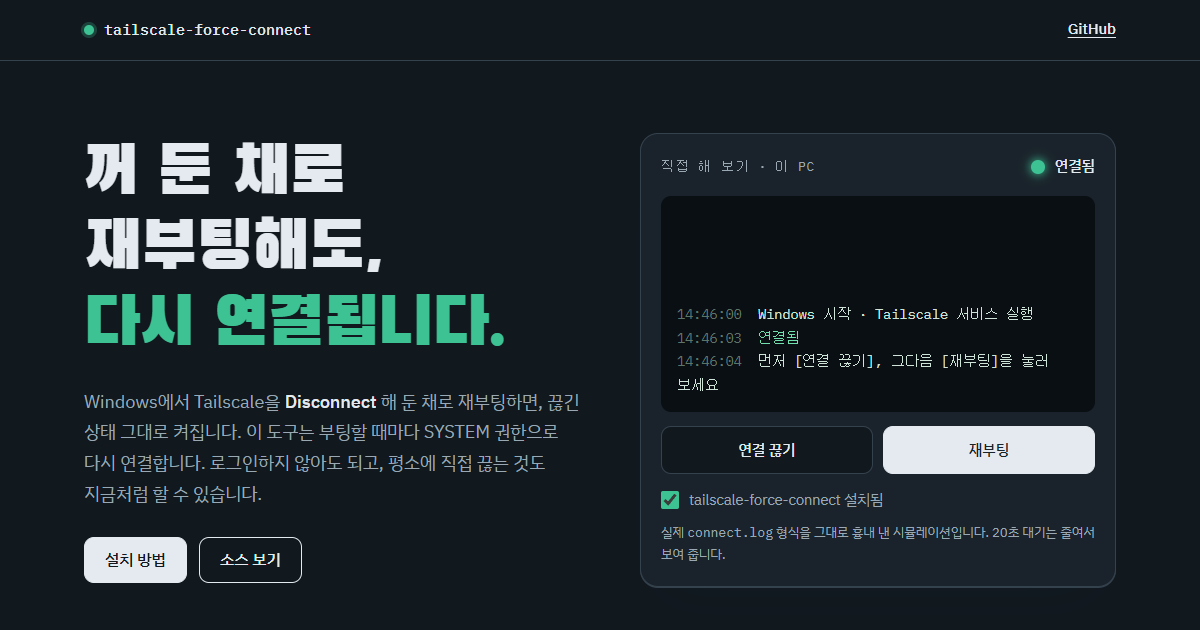
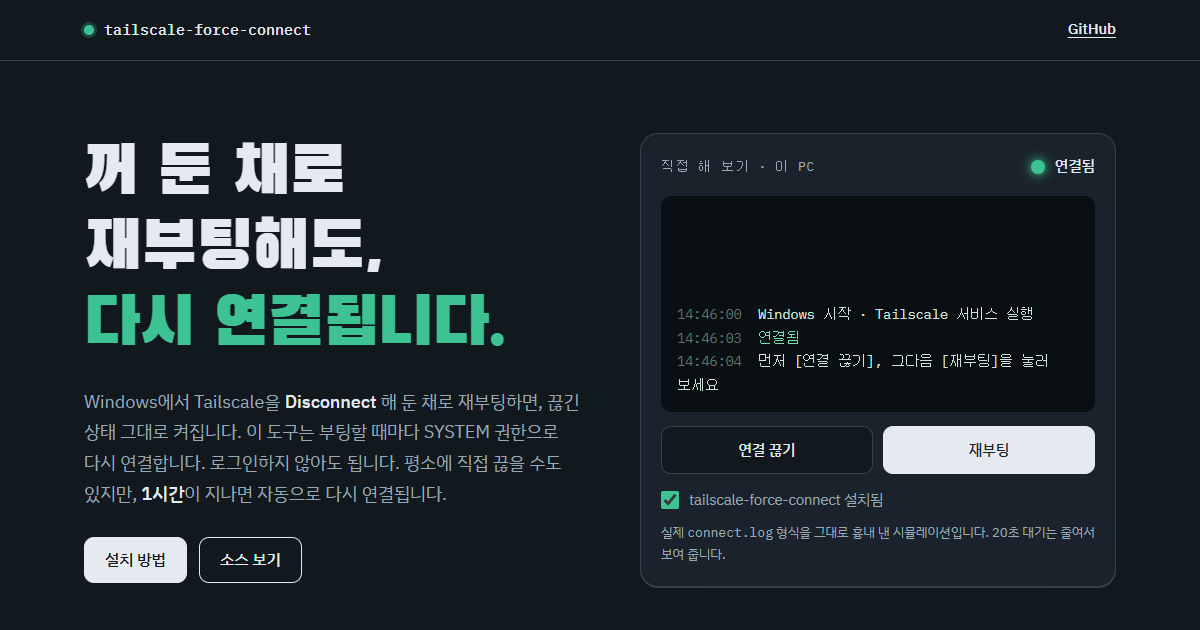
v1.2.0: reconnect automatically about 1 hour after a manual disconnect (#4)

Changed region(s): [[0.0617, 0.7238, 0.4625, 0.8143]]

diff --git a/docs/index.html b/docs/index.html
@@ -211,7 +211,7 @@
     <div>
       <h1>꺼 둔 채로 재부팅해도,<br><span class="again">다시 연결됩니다.</span></h1>
       <p class="lede">Windows에서 Tailscale을 <strong>Disconnect</strong> 해 둔 채로 재부팅하면, 끊긴 상태 그대로 켜집니다.
-        이 도구는 부팅할 때마다 SYSTEM 권한으로 다시 연결합니다. 로그인하지 않아도 되고, 평소에 직접 끊는 것도 지금처럼 할 수 있습니다.</p>
+        이 도구는 부팅할 때마다 SYSTEM 권한으로 다시 연결합니다. 로그인하지 않아도 됩니다. 평소에 직접 끊을 수도 있지만, <strong>1시간</strong>이 지나면 자동으로 다시 연결됩니다.</p>
       <div class="hero-actions">
         <a class="btn" href="#install">설치 방법</a>
         <a class="btn ghost" href="https://github.com/jeiel85/tailscale-force-connect">소스 보기</a>
@@ -279,8 +279,8 @@ powershell -ExecutionPolicy Bypass -File .\install.ps1</code></pre><button type=
           <thead><tr><th scope="col">방법</th><th scope="col">직접 끊기</th><th scope="col">다시 연결되는 때</th></tr></thead>
           <tbody>
             <tr><th scope="row"><code>AlwaysOn.<wbr>Enabled</code></th><td class="no">불가</td><td>끊을 수 없게 막습니다. <code>OverrideWithReason</code>을 켜면 사유를 적고 끊을 수 있습니다.</td></tr>
-            <tr><th scope="row"><code>Reconnect<wbr>After</code></th><td class="yes">가능</td><td>정한 시간(예: <code>30m</code>)이 지나면, 재부팅 여부와 관계없이 다시 연결합니다.</td></tr>
-            <tr class="mine"><th scope="row">이 도구</th><td class="yes">가능</td><td>부팅할 때만 다시 연결합니다. 그 전까지는 끊은 상태가 유지됩니다.</td></tr>
+            <tr><th scope="row"><code>Reconnect<wbr>After</code></th><td class="yes">가능</td><td>정한 시간(예: <code>30m</code>)이 지나면 다시 연결합니다. 다만 1.104.5에서 <code>tailscale down</code> 뒤에는 재연결되지 않았습니다.</td></tr>
+            <tr class="mine"><th scope="row">이 도구</th><td class="yes">가능</td><td>직접 끊으면 약 1시간(바꿀 수 있음) 뒤 다시 연결하고, 부팅할 때는 기다리지 않고 바로 다시 연결합니다.</td></tr>
           </tbody>
         </table>
         <p class="hint">공식 문서에는 정책이 재부팅 때 어떻게 동작하는지 따로 적혀 있지 않습니다. <a href="https://tailscale.com/docs/features/tailscale-system-policies">Tailscale 시스템 정책 문서</a></p>
@@ -298,6 +298,7 @@ powershell -ExecutionPolicy Bypass -File .\install.ps1</code></pre><button type=
         <div><dt>예약 작업</dt><dd><code>Tailscale Auto Connect</code>: 부팅하고 20초 뒤 SYSTEM으로 실행합니다. 연결될 때까지 10초 간격으로 최대 10분 동안 <code>tailscale up</code>을 시도합니다.</dd></div>
         <div><dt>스크립트 폴더</dt><dd><code>C:\ProgramData\TailscaleAutoConnect\</code>: 관리자만 고칠 수 있고, 일반 사용자는 읽기만 할 수 있습니다.</dd></div>
         <div><dt>로그</dt><dd>같은 폴더의 <code>connect.log</code>와 이벤트 뷰어의 응용 프로그램 로그(원본 <code>TailscaleForceConnect</code>)에 부팅할 때마다 결과가 남습니다. 연결 실패나 로그인이 필요한 상황(키 만료)은 오류로 기록됩니다.</dd></div>
+        <div><dt>자동 재연결 작업</dt><dd><code>Tailscale Auto Reconnect</code>: SYSTEM으로 5분마다 상태를 확인해, 직접 끊은 상태가 1시간 넘게 이어지면 다시 연결합니다. 트레이 메뉴로 끊었든 명령으로 끊었든 똑같습니다. 시간은 <code>install.cmd -ReconnectAfter 30m</code>이나 한 줄 설치 앞의 <code>set TFC_RECONNECT_AFTER=30m &amp;&amp;</code>로 바꾸고, <code>0</code>이면 이 작업을 만들지 않습니다.</dd></div>
         <div><dt>Unattended 모드</dt><dd>꺼져 있으면 켭니다. 그래야 Windows에 로그인하기 전에도 연결됩니다.</dd></div>
         <div><dt>기존 설정</dt><dd>플래그 없이 <code>tailscale up</code>만 실행하므로 exit node, 경로 수락 같은 설정은 바뀌지 않습니다.</dd></div>
       </dl>
@@ -308,7 +309,7 @@ powershell -ExecutionPolicy Bypass -File .\install.ps1</code></pre><button type=
     <div class="wrap block-grid">
       <div>
         <h2 id="h-remove">제거</h2>
-        <p class="side-note">예약 작업, 설치 폴더, 이벤트 로그 원본을 지웁니다. Tailscale 설정은 그대로 남습니다.</p>
+        <p class="side-note">예약 작업, 설치 폴더, 이벤트 로그 원본, 이 도구가 설정한 자동 재연결 정책을 지웁니다. 그 밖의 Tailscale 설정은 그대로 남습니다.</p>
       </div>
       <div class="methods">
         <div class="method">

diff --git a/README.md b/README.md
@@ -1,10 +1,11 @@
 # tailscale-force-connect
 
-Windows PC에서 **재부팅할 때마다 Tailscale을 연결 상태로 되돌립니다.** 평소에는 직접 끊을 수 있고, 강제로 연결하는 건 부팅할 때뿐입니다.
+Windows PC에서 **재부팅할 때마다 Tailscale을 연결 상태로 되돌립니다.** 직접 끊을 수도 있지만, 끊은 상태는 **1시간**(바꿀 수 있음)까지만 유지되고 그 뒤에는 자동으로 다시 연결됩니다.
 
 > **English:** A tiny PowerShell + Task Scheduler setup that makes Tailscale on Windows reconnect on every boot,
 > even if you clicked *Disconnect* before shutting down. It runs as SYSTEM before anyone logs in, keeps your
-> existing `tailscale up` settings, and does **not** stop you from disconnecting manually afterwards.
+> existing `tailscale up` settings, and still lets you disconnect manually — Tailscale reconnects by itself
+> after about 1 hour (configurable): a SYSTEM task checks every 5 minutes and reconnects once it has been off that long.
 
 🌐 소개 페이지: <https://jeiel85.github.io/tailscale-force-connect/>
 
@@ -14,7 +15,11 @@ Tailscale은 마지막 연결 상태를 기억합니다. 트레이에서 **Disco
 끊긴 상태가 그대로 유지됩니다. 원격으로 접속해야 하는 PC가 정전이나 강제 재부팅 뒤에 끊긴 채로 켜지면
 그 PC 앞으로 직접 가야 합니다.
 
-이 도구는 부팅할 때마다 SYSTEM 권한으로 `tailscale up`을 실행해 그 상태를 덮어씁니다.
+이 도구는 두 가지를 합니다.
+
+1. **부팅할 때:** SYSTEM 권한으로 `tailscale up`을 실행해 끊긴 상태를 덮어씁니다.
+2. **평소에 직접 끊었을 때:** SYSTEM 예약 작업 `Tailscale Auto Reconnect`가 5분마다 상태를 확인해, 끊긴 상태가
+   **1시간** 넘게 이어지면 다시 연결합니다. 트레이 메뉴로 끊었든 `tailscale down`으로 끊었든 똑같이 동작합니다.
 
 ## 먼저 공식 기능을 검토하세요
 
@@ -24,11 +29,11 @@ Tailscale Windows 클라이언트 **1.84 이상**에는 비슷한 목적의 [시
 | 방법 | 직접 끊기 | 동작 |
 |---|---|---|
 | `AlwaysOn.Enabled` 정책 | ❌ 불가 | 연결을 끊거나 클라이언트를 종료할 수 없게 막습니다. `AlwaysOn.OverrideWithReason`을 켜면 사유를 입력하고 끊을 수 있습니다(사유는 관리 콘솔 로그에 남음). |
-| `ReconnectAfter` 정책 | ⭕ 가능 | 끊긴 상태로 있을 수 있는 시간을 정합니다(예: `30m`). 재부팅과 상관없이 그 시간이 지나면 다시 연결됩니다. |
-| **이 도구** | ⭕ 가능 | 다음 부팅까지 끊긴 상태가 유지되고, **부팅할 때만** 다시 연결합니다. |
+| `ReconnectAfter` 정책 | ⭕ 가능 | 끊긴 상태로 있을 수 있는 시간을 정합니다(예: `30m`). 단, 이 PC(1.104.5)에서 `tailscale down` 뒤에는 시간이 지나도 다시 연결되지 않았습니다(아래 참고). |
+| **이 도구** | ⭕ 가능 | 직접 끊으면 약 1시간(바꿀 수 있음) 뒤 다시 연결하고, **부팅할 때는 기다리지 않고 바로** 다시 연결합니다. |
 
-공식 문서에는 이 정책들이 재부팅할 때 정확히 어떻게 동작하는지 나와 있지 않습니다. "평소엔 마음대로 끊고, 부팅하면 무조건 연결"이라는
-동작이 꼭 필요할 때 이 도구를 쓰세요.
+공식 `ReconnectAfter` 정책도 시험해 봤습니다. 정책은 적용됐지만(`tailscale syspolicy list`에 표시), `tailscale down` 뒤 1~2분이 지나도
+다시 연결되지 않았습니다. 그래서 이 도구는 정책에 기대지 않고 상태를 직접 확인합니다. 정책이 잘 동작하는 환경이라면 정책을 쓰는 편이 더 단순합니다.
 
 ## 설치
 
@@ -70,6 +75,11 @@ powershell -ExecutionPolicy Bypass -File .\install.ps1
   - 방법 3: `install.ps1 -NoTest`
 - 마지막 줄이 `완료 (종료 코드 0)`이고 그 앞에 `검증 성공`이 있으면 설치가 끝난 것입니다. 한 줄 설치는 실패하면 오류를 출력하고 0이 아닌 종료 코드로 끝납니다.
 - Unattended 모드(로그인 전에도 연결 유지)를 켭니다.
+- 직접 끊은 뒤 자동으로 다시 연결될 때까지의 시간을 정합니다. 기본값은 `1h`입니다. 감시 작업이 5분마다 확인하므로 실제로는 설정 시간보다 최대 10분쯤 늦게(끊긴 것을 처음 확인하는 데 한 주기, 시간이 다 된 것을 확인하는 데 한 주기) 다시 연결됩니다.
+  - 바꾸려면: `install.cmd -ReconnectAfter 30m`, 한 줄 설치는 cmd에서 `set TFC_RECONNECT_AFTER=30m && powershell -c "..."`,
+    PowerShell에서 `$env:TFC_RECONNECT_AFTER='30m'; irm ... | iex`
+  - 끄려면 값을 `0`으로 줍니다. 이미 등록된 감시 작업이 있으면 지웁니다.
+  - 형식은 `h`·`m` 단위입니다(`30m`, `1h`, `1h30m`). 10분 미만으로 정하면 1분마다 확인합니다.
 
 > **Windows 빠른 시작을 확인하세요.** 빠른 시작이 켜져 있으면(Windows 기본값) **일반 종료 후 전원을 켤 때**는 완전 부팅이 아니라
 > 최대 절전 복귀가 되어 이 작업이 실행되지 않습니다. 재시작과 정전 뒤 부팅에서는 동작합니다. 설치 스크립트가 빠른 시작이 켜진 것을 감지하면 경고를 출력합니다.
@@ -83,15 +93,18 @@ powershell -ExecutionPolicy Bypass -File .\install.ps1
 | 파일 | 역할 |
 |---|---|
 | `connect.ps1` | 부팅 때 실행되는 본체입니다. 서비스가 꺼져 있으면 켜고, 연결될 때까지 최대 10분 동안 10초 간격으로 `tailscale up`을 실행합니다. 결과는 로그 파일과 이벤트 로그에 남깁니다. |
-| `install.ps1` | `connect.ps1`을 `C:\ProgramData\TailscaleAutoConnect\`에 복사하고, Unattended 모드를 켜고, 이벤트 로그 원본과 예약 작업을 등록한 뒤 동작을 확인합니다. |
-| `uninstall.ps1` | 예약 작업, 설치 폴더, 이벤트 로그 원본을 지우고 결과를 보여 줍니다. Tailscale 본체와 Unattended 설정은 건드리지 않습니다. |
+| `install.ps1` | `connect.ps1`을 `C:\ProgramData\TailscaleAutoConnect\`에 복사하고, Unattended 모드를 켜고, 이벤트 로그 원본과 예약 작업 2개(부팅 시 연결, 자동 재연결 감시)를 등록한 뒤 동작을 확인합니다. |
+| `uninstall.ps1` | 예약 작업 2개, 설치 폴더, 이벤트 로그 원본을 지우고 결과를 보여 줍니다. Tailscale 본체와 Unattended 설정은 건드리지 않습니다. |
 | `install.cmd`, `uninstall.cmd` | 더블클릭용 실행 파일입니다. 같은 폴더의 `.ps1`을 실행합니다. |
 | `docs/get.ps1`, `docs/remove.ps1` | 한 줄 설치·제거용 스크립트입니다. GitHub Pages로 배포되며, 릴리스 zip에는 들어가지 않습니다. |
 
 설치되는 것:
 
 - 예약 작업 **`Tailscale Auto Connect`**: 시작 시 20초 뒤에 SYSTEM 계정으로 실행되며, 실행 시간은 최대 15분입니다.
-- 이벤트 로그 원본 **`TailscaleForceConnect`**(응용 프로그램 로그): 부팅할 때마다 결과를 남깁니다. ID `1000` 연결됨(정보),
+- 예약 작업 **`Tailscale Auto Reconnect`**: SYSTEM 계정으로 5분마다 실행됩니다(`connect.ps1 -Watch`). 끊긴 상태(`Stopped`)를 처음 본 시각을
+  설치 폴더의 `stopped-since.txt`에 적어 두고, 설정한 시간이 지나도 끊겨 있으면 `tailscale up`을 실행합니다. 연결돼 있으면 아무 기록도 남기지 않습니다.
+  로그인이 필요한 상태처럼 `tailscale up`으로 풀 수 없는 상태는 건드리지 않습니다.
+- 이벤트 로그 원본 **`TailscaleForceConnect`**(응용 프로그램 로그): 부팅할 때마다 결과를 남깁니다. ID `1000` 연결됨(정보), `1004` 직접 끊은 뒤 자동 재연결(정보),
   `1001` 10분 안에 연결 실패, `1002` 로그인 필요, `1003` `tailscale.exe` 없음(이상 오류).
 - 폴더 `C:\ProgramData\TailscaleAutoConnect\`: SYSTEM과 Administrators만 쓸 수 있고 Users는 읽기만 할 수 있습니다.
   SYSTEM이 실행하는 스크립트를 일반 사용자가 바꾸지 못하게 하려는 설정입니다.
@@ -149,7 +162,7 @@ powershell -c "irm https://jeiel85.github.io/tailscale-force-connect/remove.ps1 
 
 [`remove.ps1`](docs/remove.ps1)은 설치할 때 복사해 둔 `C:\ProgramData\TailscaleAutoConnect\uninstall.ps1`을 실행합니다.
 그 파일이 없으면 최신 릴리스 zip을 받아 그 안의 `uninstall.ps1`을 실행합니다.
-예약 작업, 설치 폴더, 이벤트 로그 원본을 지우고 결과를 보여 줍니다. Tailscale 설정은 그대로 남습니다.
+예약 작업 2개, 설치 폴더, 이벤트 로그 원본을 지우고 결과를 보여 줍니다. 그 밖의 Tailscale 설정은 그대로 남습니다.
 
 인터넷을 쓰지 않으려면 zip이나 git으로 받은 폴더에서 `uninstall.cmd`를 더블클릭하거나 아래 명령을 실행하세요.
 
